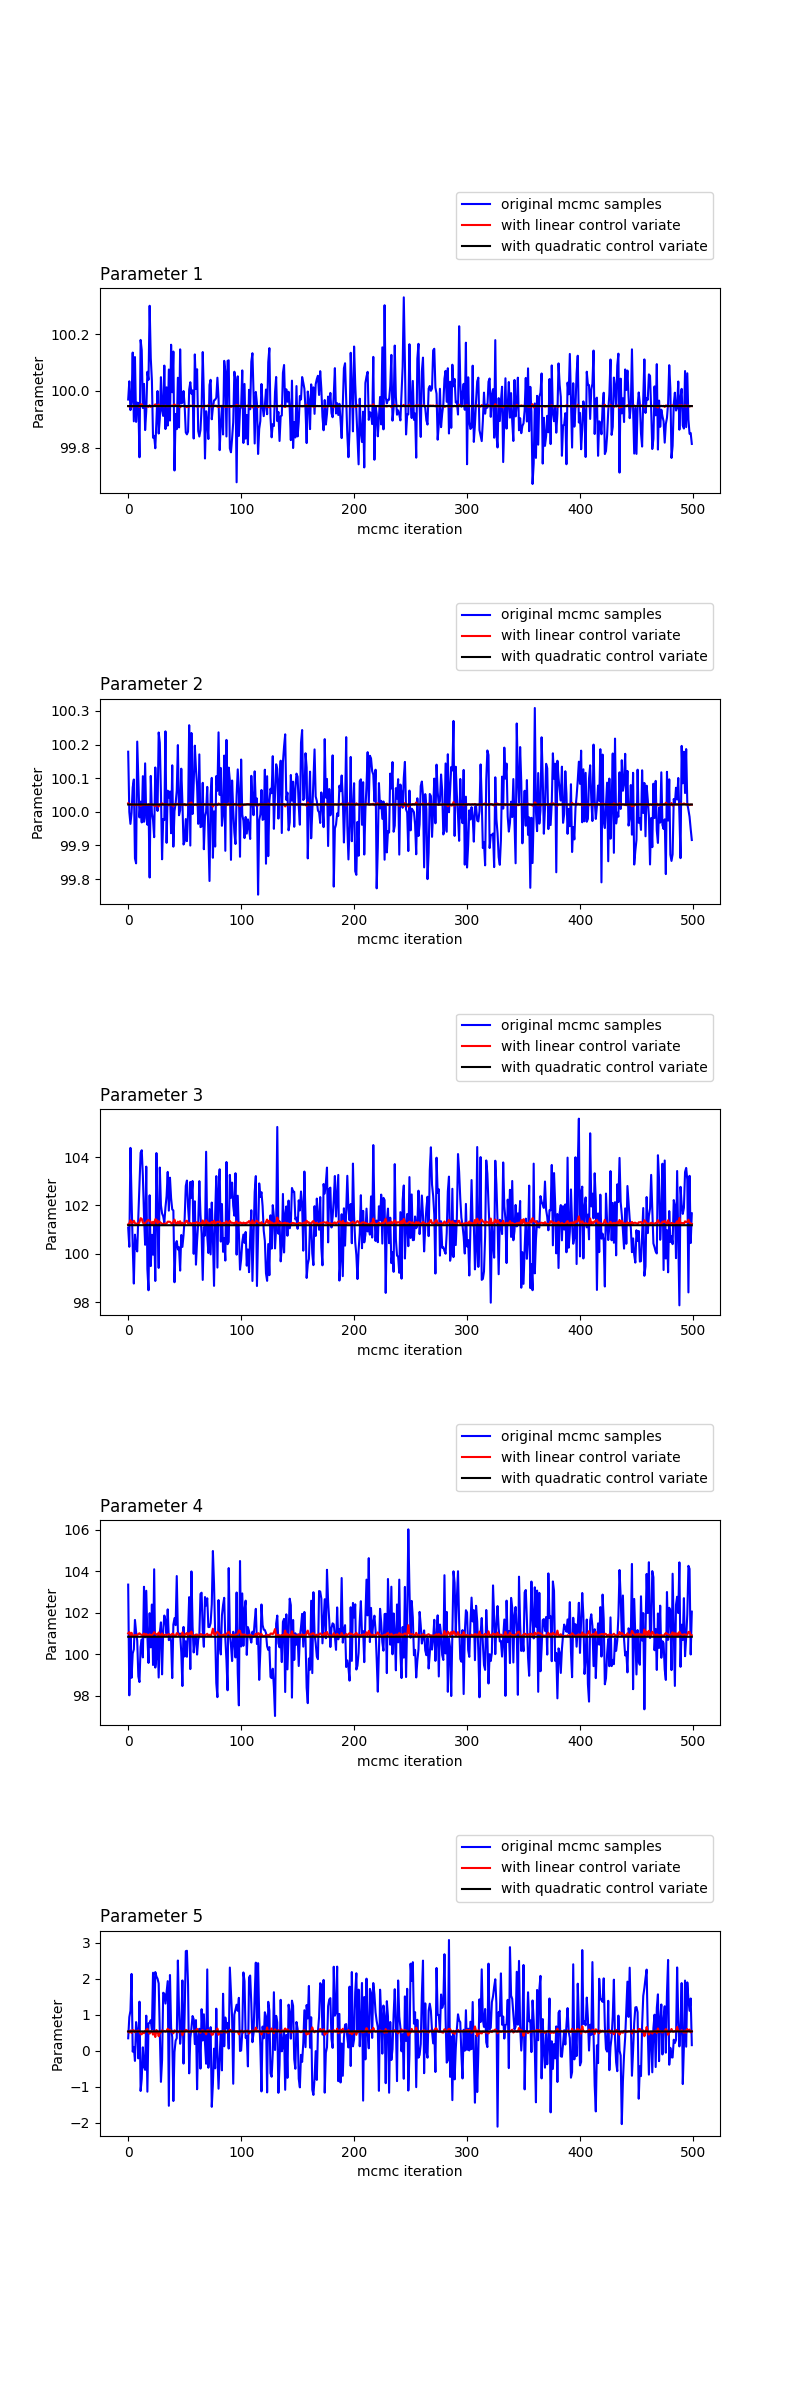
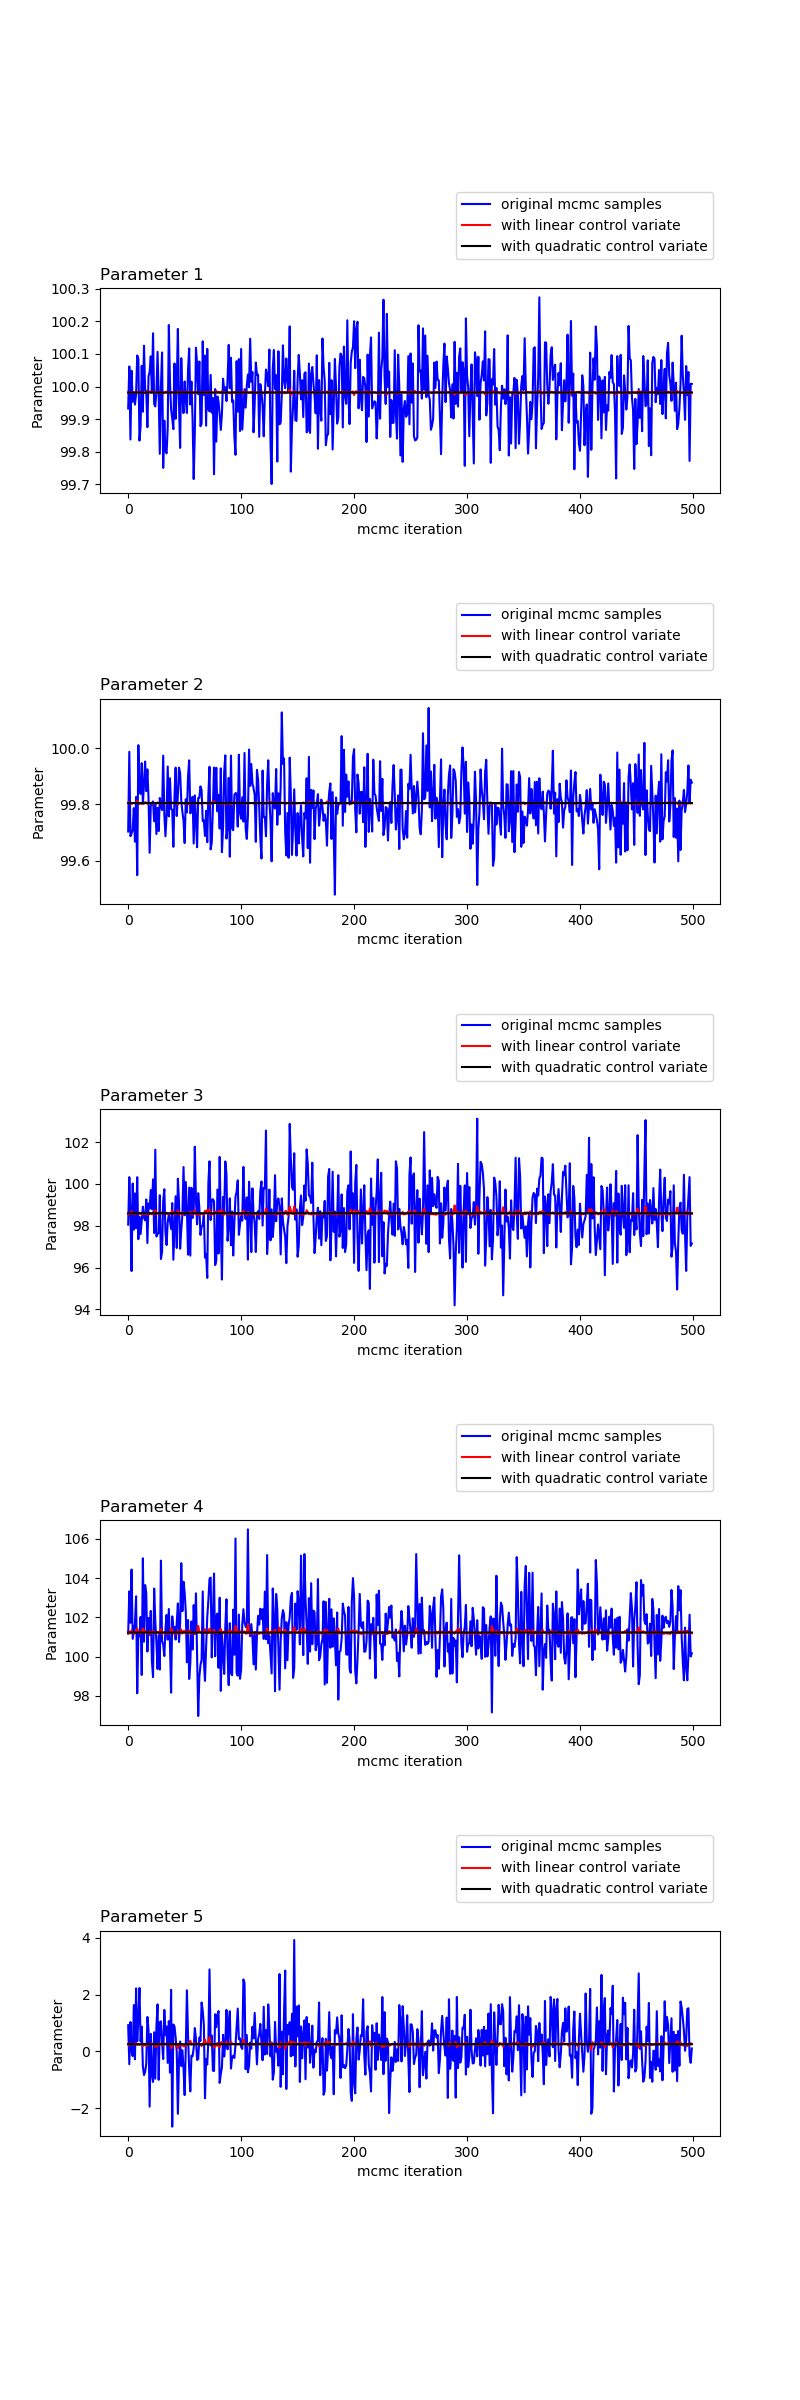
update

diff --git a/ControlVariate/control_variate.py b/ControlVariate/control_variate.py
@@ -1,5 +1,5 @@
 import numpy as np
-from PyStan_control_variate.BasicFunction.Gaussian_log_prob import grad_log_prob
+from BasicFunction.Gaussian_log_prob import grad_log_prob
 
 
 def control_variate_linear(mcmc_samples, mcmc_gradients):
@@ -13,7 +13,7 @@ def control_variate_linear(mcmc_samples, mcmc_gradients):
     zv = (-np.linalg.inv(Sigma_cc) @ Sigma_cs).T @ control.T
     new_mcmc_samples = mcmc_samples + zv.T
 
-    print('new_mcmc_samples variance: ')
+    print('new_mcmc_samples (linear control variates) variance: ')
     print(np.var(new_mcmc_samples, axis=0))
     print('old_mcmc_samples variance:')
     print(np.var(mcmc_samples, axis=0))
@@ -29,12 +29,12 @@ def control_variate_quadratic(mcmc_samples, mcmc_gradients):
     dim_control = dim+dim+dim_cp
     z = -0.5 * mcmc_gradients
     # It is weid here: should I use +0.5 or -0.5 ?
-    control = np.concatenate((z, (mcmc_samples*mcmc_gradients - 0.5)), axis=1)
+    control = np.concatenate((z, (mcmc_samples*z - 0.5)), axis=1)
     control_parts = np.zeros((num_mcmc, dim_cp))
     for i in range(2, dim+1):
         for j in range(1, i):
             ind = int(0.5*(2*dim-j)*(j-1) + (i-j))
-            control_parts[:,ind-1] = mcmc_samples[:,i-1]*mcmc_gradients[:,j-1] + mcmc_samples[:,j-1]*mcmc_gradients[:,i-1]
+            control_parts[:,ind-1] = mcmc_samples[:,i-1]*z[:,j-1] + mcmc_samples[:,j-1]*z[:,i-1]
     control = np.concatenate((control, control_parts), axis=1)
     sc_matrix = np.concatenate((mcmc_samples.T, control.T), axis=0)
     sc_cov = np.cov(sc_matrix)
@@ -44,7 +44,7 @@ def control_variate_quadratic(mcmc_samples, mcmc_gradients):
     zv = (-np.linalg.inv(Sigma_cc) @ Sigma_cs).T @ control.T
     new_mcmc_samples = mcmc_samples + zv.T
 
-    print('new_mcmc_samples variance: ')
+    print('new_mcmc_samples (quadratic control variates) variance: ')
     print(np.var(new_mcmc_samples, axis=0))
     print('old_mcmc_samples variance:')
     print(np.var(mcmc_samples, axis=0))
